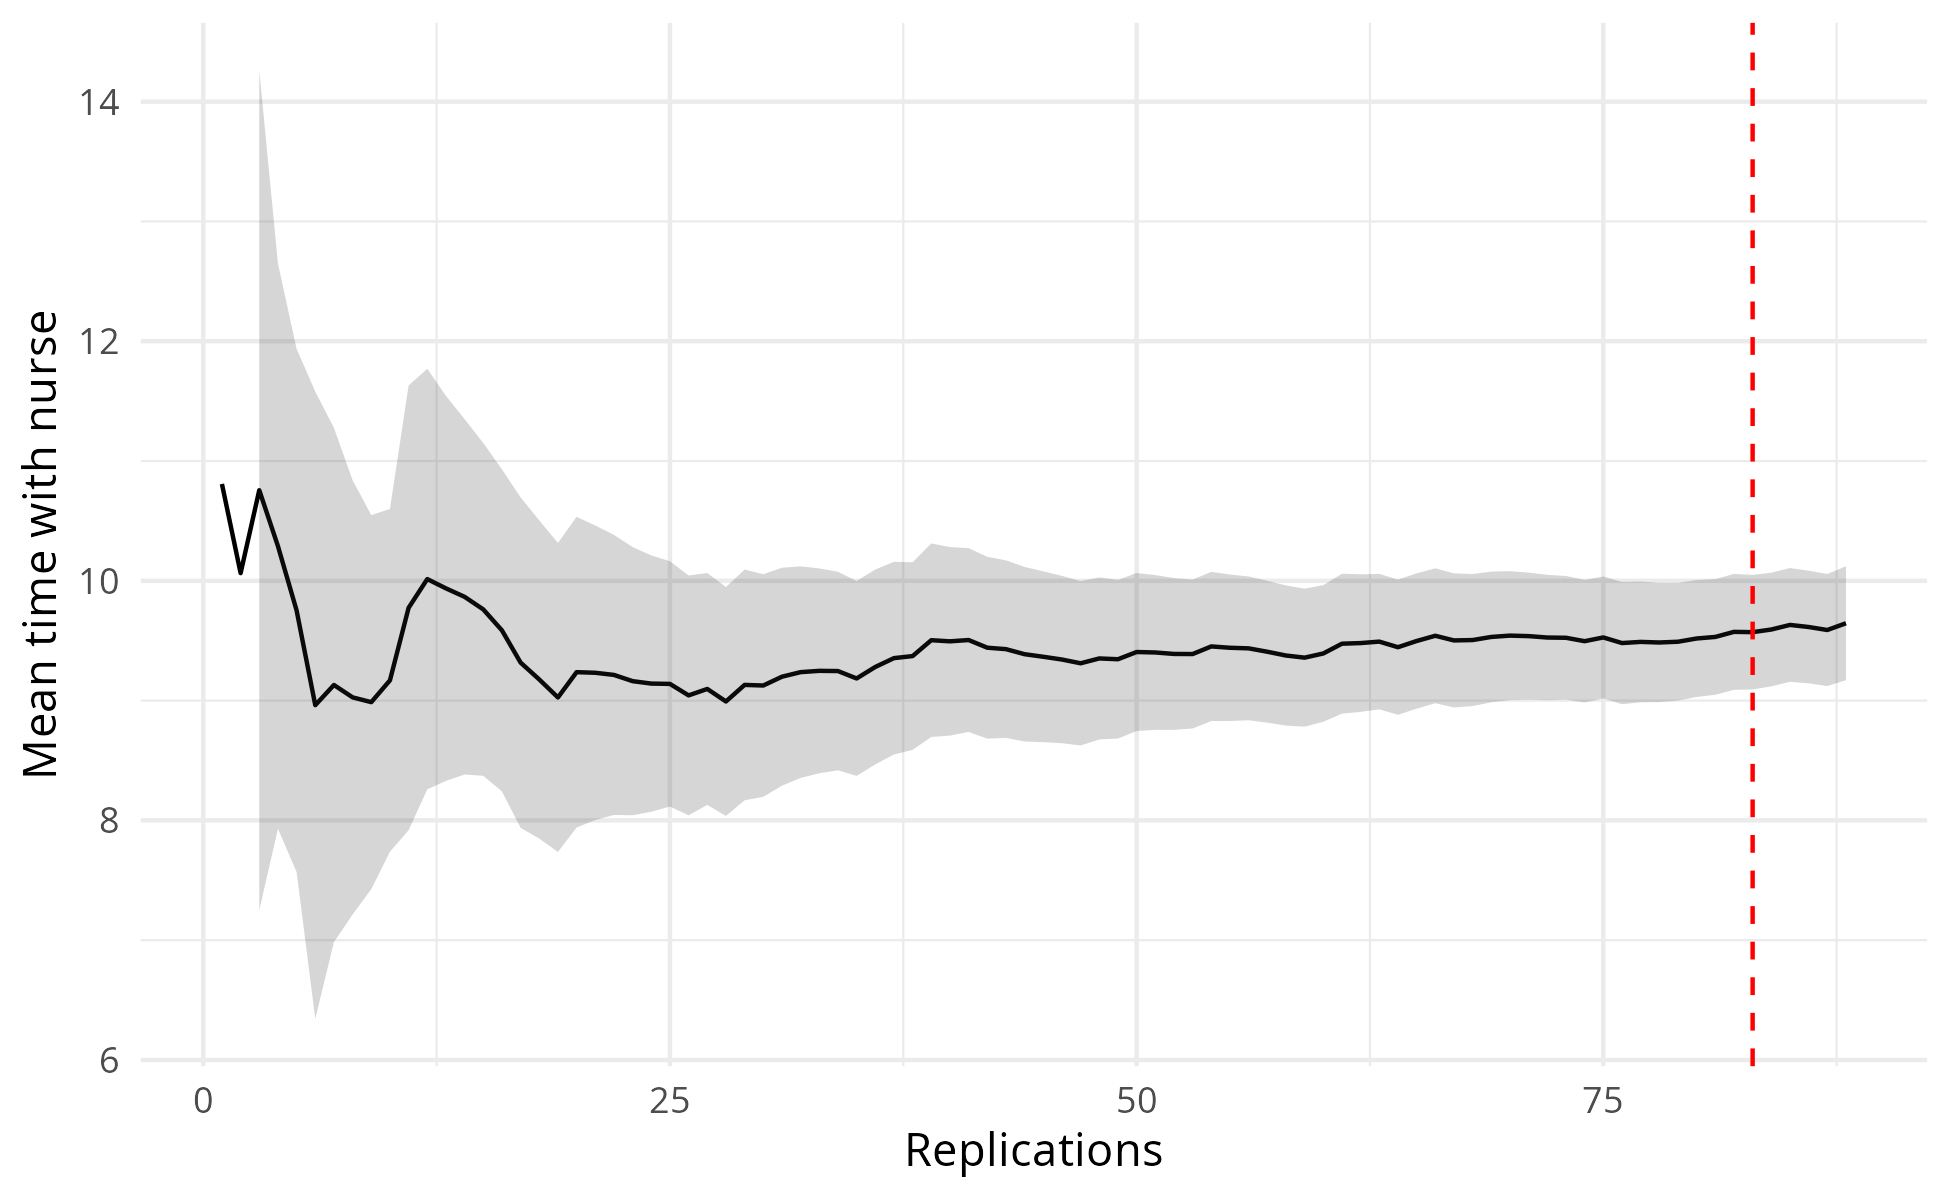
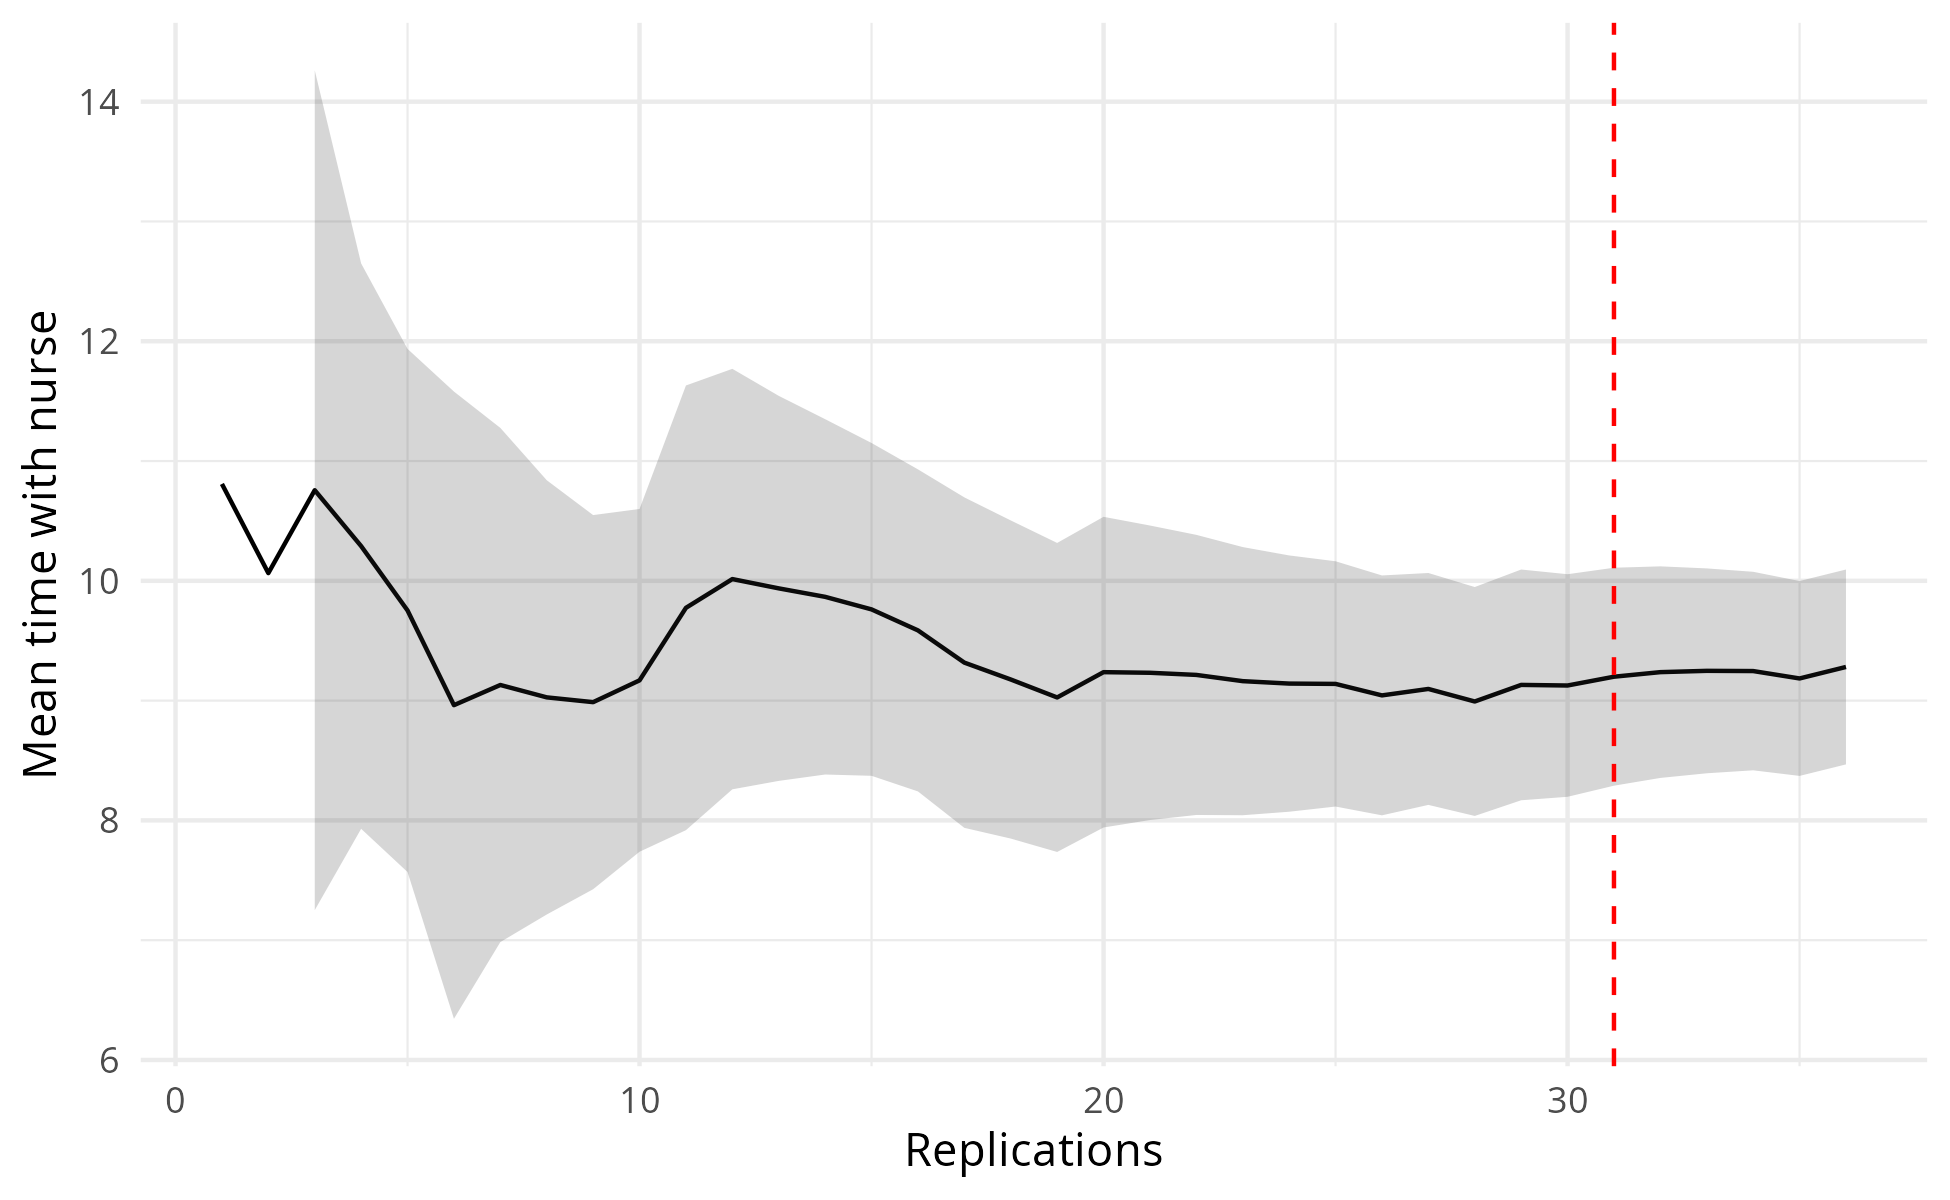
refactor(replications): change desired precision to 0.1 (#53)

diff --git a/rmarkdown/choosing_replications.md b/rmarkdown/choosing_replications.md
@@ -1,7 +1,7 @@
 Choosing replications
 ================
 Amy Heather
-2025-05-20
+2025-05-21
 
 - [Set up](#set-up)
 - [Choosing the number of
@@ -107,26 +107,39 @@ output_dir <- file.path("..", "outputs")
 
 ## Choosing the number of replications
 
-The **confidence interval method** can be used to select the number of
-replications to run. The more replications you run, the narrower your
-confidence interval becomes, leading to a more precise estimate of the
-model’s mean performance.
+The **confidence interval method** can help you decide how many
+replications (runs) your simulation needs. The more replications you
+run, the narrower your confidence interval becomes, leading to a more
+precise estimate of the model’s mean performance.
 
-First, you select a desired confidence interval - for example, 95%.
-Then, run the model with an increasing number of replications, and
-identify the number required to achieve that precision in the estimate
-of a given metric - and also, to maintain that precision (as the
-intervals may converge or expand again later on).
+There are two main calculations:
+
+- **Confidence interval**. This is the range where the true mean is
+  likely to be, based on your simulation results. For example, a 95%
+  confidence interval means that, if you repeated the experiment many
+  times, about 95 out of 100 intervals would contain the true mean.
+- **Precision**. This tells you how close that range is to your mean.
+  For example, if your mean is 50 and your 95% confidence interval is 45
+  to 55, your precision is ±10% (because 5 is 10% of 50).
+
+To run this method you:
+
+- Run the model with more and more replications.
+- Check after each how wide your confidence interval is.
+- Stop when the interval is narrow enough to meet your desired
+  precision.
+- Make sure the interval stays this narrow if you keep running more
+  replications.
 
 This method is less useful for values very close to zero - so, for
 example, when using utilisation (which ranges from 0 to 1) it is
 recommended to multiple values by 100.
 
-When selecting the number of replications you should repeat the analysis
-for all performance measures and select the highest value as your number
-of replications.
+When deciding how many replications you need, repeat this process for
+each performance measure you care about, and use the largest number you
+find.
 
-It’s important to check ahead, to check that the 5% precision is
+It’s important to check ahead, to check that the 10% precision is
 maintained - which is fine in this case - it doesn’t go back up to
 future deviation.
 
@@ -134,7 +147,7 @@ future deviation.
 # Run calculations and produce plot
 ci_df <- confidence_interval_method(
   replications = 150L,
-  desired_precision = 0.05,
+  desired_precision = 0.1,
   metric = "mean_serve_time_nurse"
 )
 ```
@@ -172,7 +185,7 @@ ci_df <- confidence_interval_method(
     ## $file_path
     ## NULL
 
-    ## Reached desired precision (0.05) in 83 replications.
+    ## Reached desired precision (0.1) in 31 replications.
 
 ``` r
 # Preview dataframe
@@ -245,7 +258,7 @@ It is also important to check across multiple metrics.
 # Run calculations
 ci_df <- confidence_interval_method(
   replications = 1000L,
-  desired_precision = 0.05,
+  desired_precision = 0.1,
   metric = "mean_waiting_time_nurse"
 )
 ```
@@ -283,7 +296,7 @@ ci_df <- confidence_interval_method(
     ## $file_path
     ## NULL
 
-    ## Warning: Running 1000 replications did not reach desired precision (0.05).
+    ## Warning: Running 1000 replications did not reach desired precision (0.1).
 
 ``` r
 # Preview dataframe
@@ -323,7 +336,7 @@ include_graphics(path)
 # Run calculations
 ci_df <- confidence_interval_method(
   replications = 200L,
-  desired_precision = 0.05,
+  desired_precision = 0.1,
   metric = "utilisation_nurse"
 )
 ```
@@ -361,7 +374,7 @@ ci_df <- confidence_interval_method(
     ## $file_path
     ## NULL
 
-    ## Reached desired precision (0.05) in 128 replications.
+    ## Reached desired precision (0.1) in 45 replications.
 
 ``` r
 # Preview dataframe
@@ -488,10 +501,10 @@ alg$nreps
     ## [1] NA
     ## 
     ## $mean_serve_time_nurse
-    ## [1] 83
+    ## [1] 31
     ## 
     ## $utilisation_nurse
-    ## [1] 128
+    ## [1] 45
 
 ``` r
 head(alg$summary_table)

diff --git a/rmarkdown/generate_exp_results.md b/rmarkdown/generate_exp_results.md
@@ -1,7 +1,7 @@
 Generate expected results
 ================
 Amy Heather
-2025-05-20
+2025-05-21
 
 - [Set-up](#set-up)
 - [Base case](#base-case)
@@ -320,12 +320,45 @@ param <- parameters(
 # Run the confidence_interval_method()
 rep_results <- confidence_interval_method(
   replications = 15L,
-  desired_precision = 0.05,
+  desired_precision = 0.1,
   metric = "mean_serve_time_nurse"
 )
 ```
 
-    ## Warning: Running 15 replications did not reach desired precision (0.05).
+    ## $patient_inter
+    ## [1] 4
+    ## 
+    ## $mean_n_consult_time
+    ## [1] 10
+    ## 
+    ## $number_of_nurses
+    ## [1] 5
+    ## 
+    ## $warm_up_period
+    ## [1] 0
+    ## 
+    ## $data_collection_period
+    ## [1] 80
+    ## 
+    ## $number_of_runs
+    ## [1] 15
+    ## 
+    ## $scenario_name
+    ## NULL
+    ## 
+    ## $cores
+    ## [1] 1
+    ## 
+    ## $log_to_console
+    ## [1] FALSE
+    ## 
+    ## $log_to_file
+    ## [1] FALSE
+    ## 
+    ## $file_path
+    ## NULL
+
+    ## Warning: Running 15 replications did not reach desired precision (0.1).
 
 ``` r
 # Preview results
